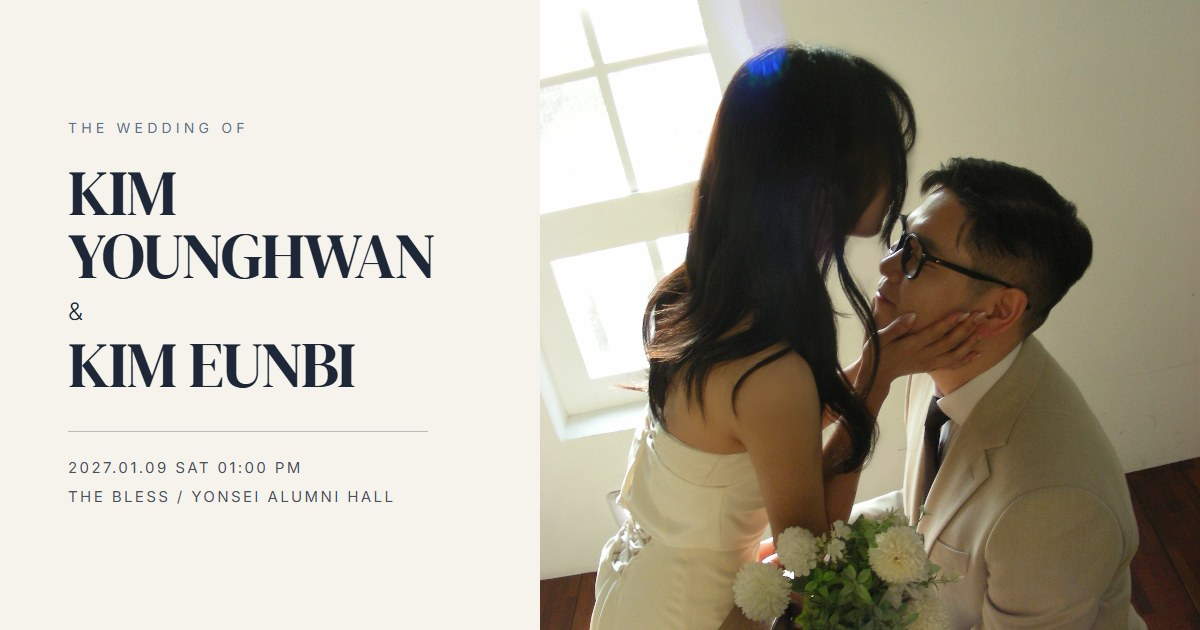
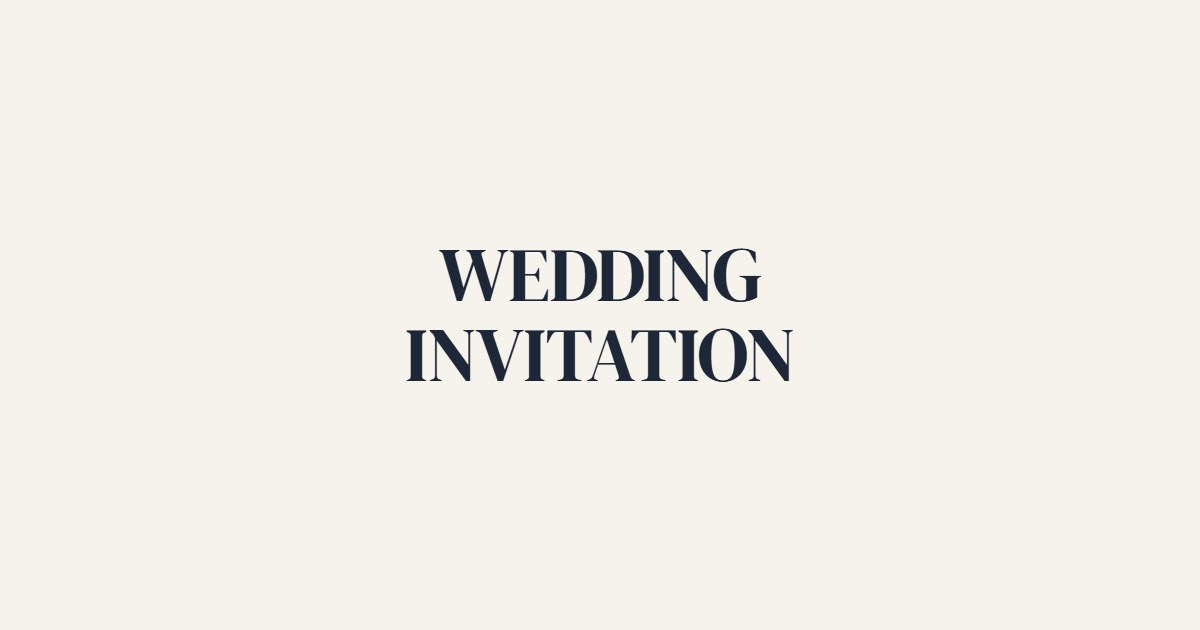
Use text-only KakaoTalk preview image

diff --git a/docs/og/og-image-template.html b/docs/og/og-image-template.html
@@ -1,28 +1,16 @@
 <!doctype html>
 <!--
   카카오톡 미리보기 이미지(public/og-image.jpg) 템플릿 — 1200×630
-  첫 화면 사진(src/assets/hero.png)을 오른쪽에 사용합니다.
-  사진을 바꾼 뒤 이 파일을 브라우저로 열어 1200×630으로 캡처하거나,
-  Claude에게 "카톡 미리보기 이미지 다시 만들어줘"라고 요청하세요.
+  이름·날짜는 미리보기 아래 제목/설명(index.html의 og:title, og:description)에 표시되므로
+  이미지에는 문구만 둡니다. 카톡이 가운데를 잘라 보여줘도 문구가 보이도록 가운데 정렬.
 -->
 <html><head><meta charset="utf-8">
-<link href="https://fonts.googleapis.com/css2?family=DM+Serif+Display&family=Inter:wght@300;400&display=swap" rel="stylesheet">
+<link href="https://fonts.googleapis.com/css2?family=DM+Serif+Display&display=swap" rel="stylesheet">
 <style>
   html,body{margin:0;width:1200px;height:630px;overflow:hidden}
-  .card{display:grid;grid-template-columns:540px 1fr;width:1200px;height:630px;background:#f6f3ec;color:#1d2738}
-  .text{display:flex;flex-direction:column;justify-content:center;padding:0 0 0 68px}
-  .eyebrow{font:400 14px Inter,sans-serif;letter-spacing:.3em;color:#5c7290;margin:0 0 26px}
-  h1{margin:0;font:400 64px/0.98 "DM Serif Display",serif;letter-spacing:-.02em}
-  .amp{display:block;font:300 24px Inter,sans-serif;margin:10px 0 8px}
-  .info{margin-top:34px;padding-top:22px;border-top:1px solid rgba(20,24,34,.25);width:360px;
-    font:400 15px/1.9 Inter,sans-serif;letter-spacing:.16em;color:#4a505c}
-  .photo{background:url("../../src/assets/hero.png") 50% 30%/cover}
+  .card{display:flex;align-items:center;justify-content:center;width:1200px;height:630px;background:#f6f3ec}
+  h1{margin:0;font:400 76px/1.05 "DM Serif Display",serif;letter-spacing:-.01em;text-align:center;color:#1d2738}
 </style></head>
 <body><div class="card">
-  <div class="text">
-    <p class="eyebrow">THE WEDDING OF</p>
-    <h1>KIM YOUNGHWAN<span class="amp">&amp;</span>KIM EUNBI</h1>
-    <div class="info">2027.01.09 SAT 01:00 PM<br>THE BLESS / YONSEI ALUMNI HALL</div>
-  </div>
-  <div class="photo"></div>
+  <h1>WEDDING<br>INVITATION</h1>
 </div></body></html>

diff --git a/index.html b/index.html
@@ -11,7 +11,7 @@
     <meta property="og:description" content="2027.01.09(토) 오후 1시 · 연세동문회관예식장" />
     <!-- 카카오톡/SNS 링크 미리보기. 주소(도메인)가 바뀌면 아래 두 URL도 함께 수정 -->
     <meta property="og:url" content="https://keb656.github.io/yh-eb-wedding-invitation/" />
-    <meta property="og:image" content="https://keb656.github.io/yh-eb-wedding-invitation/og-image.jpg?v=2" />
+    <meta property="og:image" content="https://keb656.github.io/yh-eb-wedding-invitation/og-image.jpg?v=3" />
     <meta property="og:image:width" content="1200" />
     <meta property="og:image:height" content="630" />
     <meta property="og:image:alt" content="김영환 ♥ 김은비 결혼합니다" />
